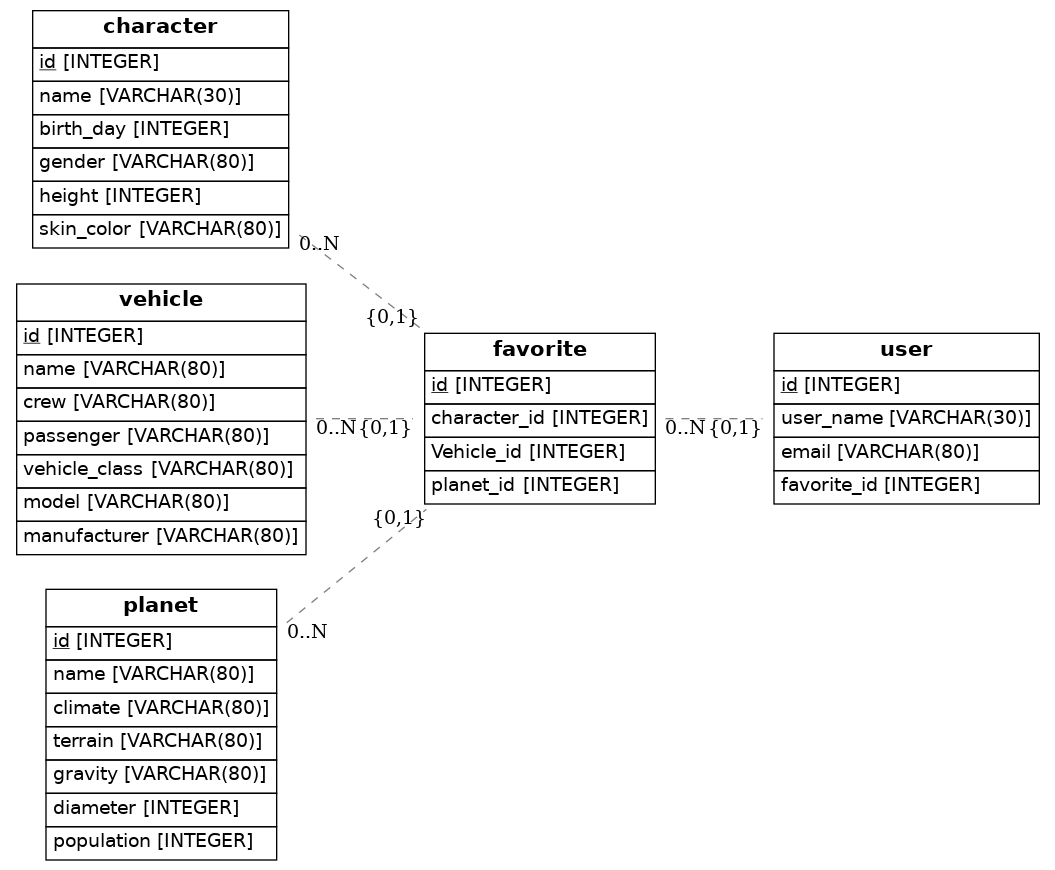
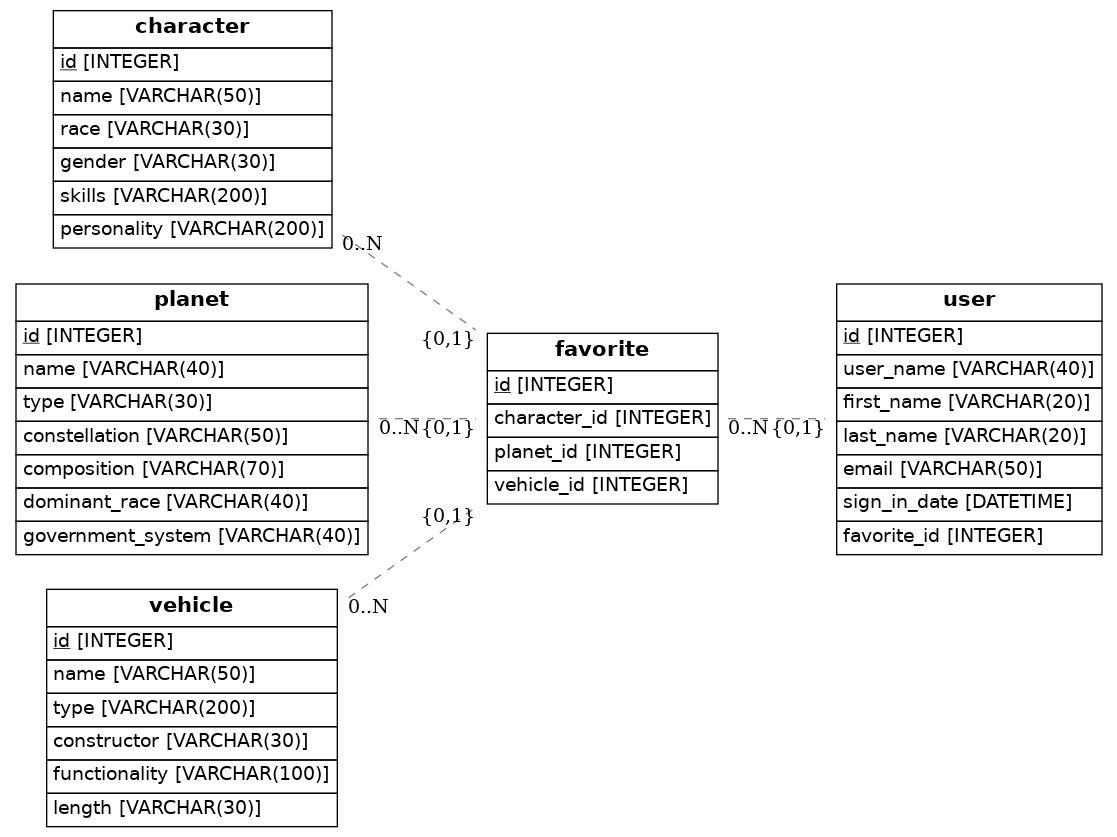
version final

Changed region(s): [[0.0, 0.0, 1.0, 0.994], [0.3336, 0.3417, 0.3943, 0.3728], [0.9706, 0.6213, 1.0, 0.6523]]

diff --git a/src/models.py b/src/models.py
@@ -1,64 +1,65 @@
 import os
 import sys
-from sqlalchemy import Column, ForeignKey, Integer, String
+from sqlalchemy import Column, ForeignKey, Integer, String, Float, DateTime
 from sqlalchemy.ext.declarative import declarative_base
+from sqlalchemy.orm import relationship
+from sqlalchemy import create_engine
 from eralchemy import render_er
-
-from example import Vehicle
 
 Base = declarative_base()
 
 class User(Base):
-    __tablename__ = 'user'
-    id = Column(Integer, primary_key=True)
-    user_name = Column(String(30), nullable=False, unique=True)
-    email = Column(String(80), nullable=False, unique=True)
-    favorite_id = Column(Integer, ForeignKey('favorite.id'))
-    def verifyLogin(self):
-        """verify login"""
-    
-    def addToFavorite(self):
-        """Add to Favorite """
-
-    def removeFavorite(self):
-        """remove Favorite"""
+    __tablename__='user'
+    id=Column(Integer, primary_key=True)
+    user_name=Column(String(40), unique = True)
+    first_name=Column(String(20), nullable=False)
+    last_name=Column(String(20), nullable=False)
+    email=Column(String (50), unique=True)
+    sign_in_date=Column(DateTime(), nullable=True)
+    favorites= relationship('favorites', backref='user', uselist=True)
+    favorite_id=Column(Integer, ForeignKey('favorite.id'), nullable=False)
 
 class Favorite(Base):
-    __tablename__ = 'favorite'
-    id = Column(Integer, primary_key=True)
-    character_id = Column(Integer, ForeignKey('character.id'), nullable=True)
-    Vehicle_id = Column(Integer, ForeignKey('vehicle.id'), nullable=True)
-    planet_id = Column(Integer, ForeignKey('planet.id'), nullable=True)
+    __tablename__= 'favorite'
+    id=Column(Integer, primary_key=True)
+    character_id=Column(Integer, ForeignKey('character.id'), nullable=False)
+    planet_id=Column(Integer, ForeignKey('planet.id'), nullable=False)
+    vehicle_id=Column(Integer, ForeignKey('vehicle.id'), nullable=False)
+    favorites=relationship('favorites', backref='user', uselist=True)
 
 class Character(Base):
     __tablename__= 'character'
-    id = Column(Integer, primary_key=True)
-    name = Column(String(30), nullable=False, unique=True)
-    birth_day = Column(Integer, nullable=False)
-    gender = Column(String(80), nullable=False)
-    height = Column(Integer, nullable=False)
-    skin_color = Column(String(80), nullable=False)
+    id=Column(Integer, primary_key=True)
+    name=Column(String(50), nullable=False)
+    race=Column(String(30), nullable=False)
+    gender=Column(String(30), nullable=False)
+    skills=Column(String(200), nullable=False)
+    personality=Column(String(200), nullable=False)
+    
+class Planet(Base):
+    __tablename__= 'planet'
+    id=Column(Integer, primary_key=True)
+    name=Column(String(40), nullable=False)
+    type=Column(String(30), nullable=False)
+    constellation=Column(String(50), nullable=False)
+    composition=Column(String(70), nullable=False)
+    dominant_race=Column(String(40), nullable=False)
+    government_system=Column(String(40), nullable=False)
+
 
 class Vehicle(Base):
-    __tablename__ = 'vehicle'
-    id = Column(Integer, primary_key=True)
-    name = Column(String(80), nullable=False, unique=True)
-    crew = Column(String(80), nullable=False)
-    passenger = Column(String(80), nullable=False)
-    vehicle_class = Column(String(80), nullable=False)
-    model = Column(String(80), nullable=False)
-    manufacturer = Column(String(80), nullable=False)
+    __tablename__='vehicle'
+    id=Column(Integer, primary_key=True)
+    name=Column(String(50), nullable=False)
+    type=Column(String(200), nullable=False)
+    constructor=Column(String(30), nullable=False)
+    functionality=Column(String(100), nullable=False)
+    length=Column(String(30), nullable=False)
+    
 
-class Planet(Base):
-    __tablename__ = 'planet'
-    id = Column(Integer, primary_key=True)
-    name = Column(String(80), nullable=False, unique=True)
-    climate = Column(String(80), nullable=False)
-    terrain = Column(String(80), nullable=False)
-    gravity = Column(String (80), nullable=False) 
-    diameter = Column(Integer, nullable=False)
-    population = Column(Integer, nullable=False)  
 
+
+    
 
 ## Draw from SQLAlchemy base
 render_er(Base, 'diagram.png')
